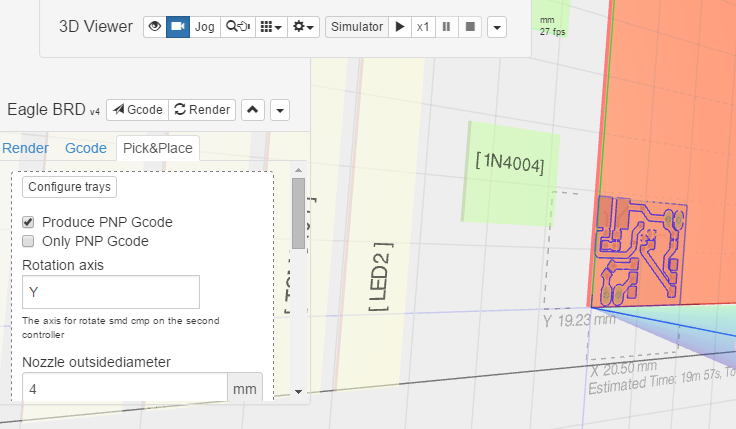
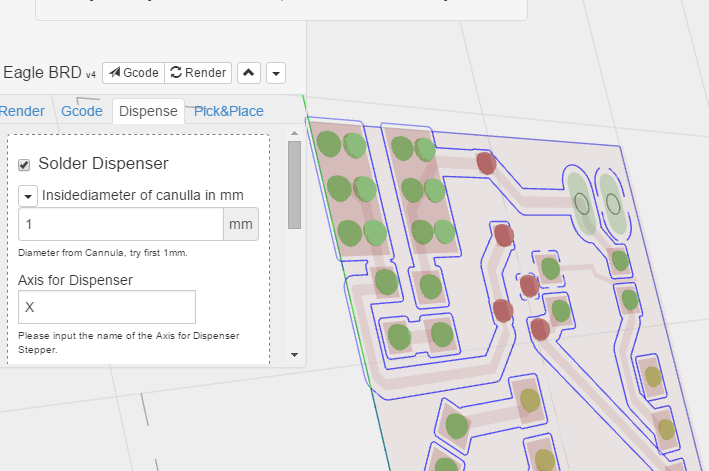
Made some changes to ChiliPeppr widget using Cloud9

diff --git a/auto-generated-widget.html b/auto-generated-widget.html
@@ -216,10 +216,7 @@ cpdefine("inline:com-chilipeppr-widget-eagle-dispense", ["chilipeppr_ready", /* 
          * instantiating code like a workspace or a different widget.
          */
         init: function(eagleWidget) {
-            
-            // if(eagleWidget === undefined)
-            //    return;
-                        
+
             this.eagleWidget = eagleWidget;
             console.log("I am being initted. eagleWidget:", this.eagleWidget);
 
@@ -347,6 +344,7 @@ cpdefine("inline:com-chilipeppr-widget-eagle-dispense", ["chilipeppr_ready", /* 
             else {
                 gcodeParts[1300] = undefined;
             }
+            console.log('Gcode', gcodeParts);
         },
         /**
          * After Render Register all components and sort to the trays and pockets
@@ -378,6 +376,8 @@ cpdefine("inline:com-chilipeppr-widget-eagle-dispense", ["chilipeppr_ready", /* 
             if(! $('#com-chilipeppr-widget-eagle-dispense .dispenser-active').is(':checked'))
                return;
             
+            $('#' + that.id).find('.cannulaDiameter').trigger('change');
+
             // get all smd pads,
             var clippers = PARENT.clipperBySignalKey;
             console.group("drawDispenserDrops");
@@ -419,14 +419,16 @@ cpdefine("inline:com-chilipeppr-widget-eagle-dispense", ["chilipeppr_ready", /* 
                            starty += diameter + space_y;
                         }
                         that.renderedDrops.push(group);
-                        if (s.rot != null) {
-                           // TODO: get orignal roatete from eagle.components
-                           var rot = parseInt(s.rot.replace(/\D+/,''));
-                           var r = (Math.PI / 180) * rot;
-                           var axis = new THREE.Vector3(0, 0, 1);
-                           // PARENT.rotateAroundObjectAxis(group, axis, r);
-                        }
                         that.sceneAdd(group);
+
+                        if (smd.threeObj.userData.elem.rot) {
+                           var rotation = smd.threeObj.userData.elem.rot;
+                           // get orignal roatete from eagle.components
+                           var rot = parseInt(rotation.replace(/\D+/,''));
+                           console.log('Rotation: ', smd.threeObj.userData.elem.name, rot);
+                           var r = (Math.PI / 180) * rot;
+                           // TODO: Don't know how can i rotate a group around it's center???
+                        }
                    }  else {
                      // calculate area and mark drop with traffic colors
                      var ar_smd = s.dx * s.dy;
@@ -460,8 +462,8 @@ cpdefine("inline:com-chilipeppr-widget-eagle-dispense", ["chilipeppr_ready", /* 
 
             g += "(generate Drop Nr: " + count + ")\n";        // Comment to see the blocks
             g += "G0 F200 Z" + PARENT.clearanceHeight + "\n";         // save height               i.e: Z:1mm
-            g += "G0 X" + (vector.x + that.options.DispenserXoffset).toFixed(4)
-                        + " Y" + (vector.y + that.options.DispenserYoffset).toFixed(4)
+            g += "G0 X" + (vector.x).toFixed(4)
+                        + " Y" + (vector.y).toFixed(4)
                         + "\n";                                // got to position of drop
             g += "G0 Z" + dropDepth  + "\n";                   // careful go to dropdepth        i.e: Z:0.05mm
             g += "(chilipeppr_pause drop" 
@@ -481,6 +483,8 @@ cpdefine("inline:com-chilipeppr-widget-eagle-dispense", ["chilipeppr_ready", /* 
                return g;
 
             console.group('exportGcodeDispenser');
+
+            chilipeppr.publish("/com-chilipeppr-elem-flashmsg/flashmsg", "Generate <b>Dispense</b> G-Code", "Rendering Solder paste dispenser g-code moves.", 1 * 1000);
 
             g += "(------ DISPENSER DROP's -------)\n";
             g += "M5 (spindle stop)\n";
@@ -714,10 +718,12 @@ cpdefine("inline:com-chilipeppr-widget-eagle-dispense", ["chilipeppr_ready", /* 
 <div id="com-chilipeppr-widget-eagle-dispense" class="tab-pane hidden">
              <div class="panel eagle-advanced" style="margin-bottom:10px;">
              <!-- Dispense Setting -->
+                 <h2>Solder_Dispenser</h2>
                  <div class="checkbox">
-                     <label>
-                        <input type="checkbox" class="dispenser-active" checked /><h2>Solder Dispenser</h2>
-                     </label>
+                  <label><input type="checkbox" class="activedispensegcode" checked>Produce Dispense Gcode</label>
+                 </div>
+                 <div class="checkbox">
+                  <label><input type="checkbox" class="onlydispensegcode" xchecked>Only Dispense Gcode</label>
                  </div>
                  <div class="btn-group">
                      <button type="button" class="btn btn-xs btn-default dropdown-toggle" data-toggle="dropdown"> <span class="caret"></span></button>

diff --git a/widget.js b/widget.js
@@ -178,10 +178,7 @@ cpdefine("inline:com-chilipeppr-widget-eagle-dispense", ["chilipeppr_ready", /* 
          * instantiating code like a workspace or a different widget.
          */
         init: function(eagleWidget) {
-            
-            // if(eagleWidget === undefined)
-            //    return;
-                        
+
             this.eagleWidget = eagleWidget;
             console.log("I am being initted. eagleWidget:", this.eagleWidget);
 
@@ -309,6 +306,7 @@ cpdefine("inline:com-chilipeppr-widget-eagle-dispense", ["chilipeppr_ready", /* 
             else {
                 gcodeParts[1300] = undefined;
             }
+            console.log('Gcode', gcodeParts);
         },
         /**
          * After Render Register all components and sort to the trays and pockets
@@ -340,6 +338,8 @@ cpdefine("inline:com-chilipeppr-widget-eagle-dispense", ["chilipeppr_ready", /* 
             if(! $('#com-chilipeppr-widget-eagle-dispense .dispenser-active').is(':checked'))
                return;
             
+            $('#' + that.id).find('.cannulaDiameter').trigger('change');
+
             // get all smd pads,
             var clippers = PARENT.clipperBySignalKey;
             console.group("drawDispenserDrops");
@@ -381,14 +381,16 @@ cpdefine("inline:com-chilipeppr-widget-eagle-dispense", ["chilipeppr_ready", /* 
                            starty += diameter + space_y;
                         }
                         that.renderedDrops.push(group);
-                        if (s.rot != null) {
-                           // TODO: get orignal roatete from eagle.components
-                           var rot = parseInt(s.rot.replace(/\D+/,''));
-                           var r = (Math.PI / 180) * rot;
-                           var axis = new THREE.Vector3(0, 0, 1);
-                           // PARENT.rotateAroundObjectAxis(group, axis, r);
-                        }
                         that.sceneAdd(group);
+
+                        if (smd.threeObj.userData.elem.rot) {
+                           var rotation = smd.threeObj.userData.elem.rot;
+                           // get orignal roatete from eagle.components
+                           var rot = parseInt(rotation.replace(/\D+/,''));
+                           console.log('Rotation: ', smd.threeObj.userData.elem.name, rot);
+                           var r = (Math.PI / 180) * rot;
+                           // TODO: Don't know how can i rotate a group around it's center???
+                        }
                    }  else {
                      // calculate area and mark drop with traffic colors
                      var ar_smd = s.dx * s.dy;
@@ -422,8 +424,8 @@ cpdefine("inline:com-chilipeppr-widget-eagle-dispense", ["chilipeppr_ready", /* 
 
             g += "(generate Drop Nr: " + count + ")\n";        // Comment to see the blocks
             g += "G0 F200 Z" + PARENT.clearanceHeight + "\n";         // save height               i.e: Z:1mm
-            g += "G0 X" + (vector.x + that.options.DispenserXoffset).toFixed(4)
-                        + " Y" + (vector.y + that.options.DispenserYoffset).toFixed(4)
+            g += "G0 X" + (vector.x).toFixed(4)
+                        + " Y" + (vector.y).toFixed(4)
                         + "\n";                                // got to position of drop
             g += "G0 Z" + dropDepth  + "\n";                   // careful go to dropdepth        i.e: Z:0.05mm
             g += "(chilipeppr_pause drop" 
@@ -443,6 +445,8 @@ cpdefine("inline:com-chilipeppr-widget-eagle-dispense", ["chilipeppr_ready", /* 
                return g;
 
             console.group('exportGcodeDispenser');
+
+            chilipeppr.publish("/com-chilipeppr-elem-flashmsg/flashmsg", "Generate <b>Dispense</b> G-Code", "Rendering Solder paste dispenser g-code moves.", 1 * 1000);
 
             g += "(------ DISPENSER DROP's -------)\n";
             g += "M5 (spindle stop)\n";

diff --git a/widget.html b/widget.html
@@ -35,10 +35,12 @@
 <div id="com-chilipeppr-widget-eagle-dispense" class="tab-pane hidden">
              <div class="panel eagle-advanced" style="margin-bottom:10px;">
              <!-- Dispense Setting -->
+                 <h2>Solder_Dispenser</h2>
                  <div class="checkbox">
-                     <label>
-                        <input type="checkbox" class="dispenser-active" checked /><h2>Solder Dispenser</h2>
-                     </label>
+                  <label><input type="checkbox" class="activedispensegcode" checked>Produce Dispense Gcode</label>
+                 </div>
+                 <div class="checkbox">
+                  <label><input type="checkbox" class="onlydispensegcode" xchecked>Only Dispense Gcode</label>
                  </div>
                  <div class="btn-group">
                      <button type="button" class="btn btn-xs btn-default dropdown-toggle" data-toggle="dropdown"> <span class="caret"></span></button>
